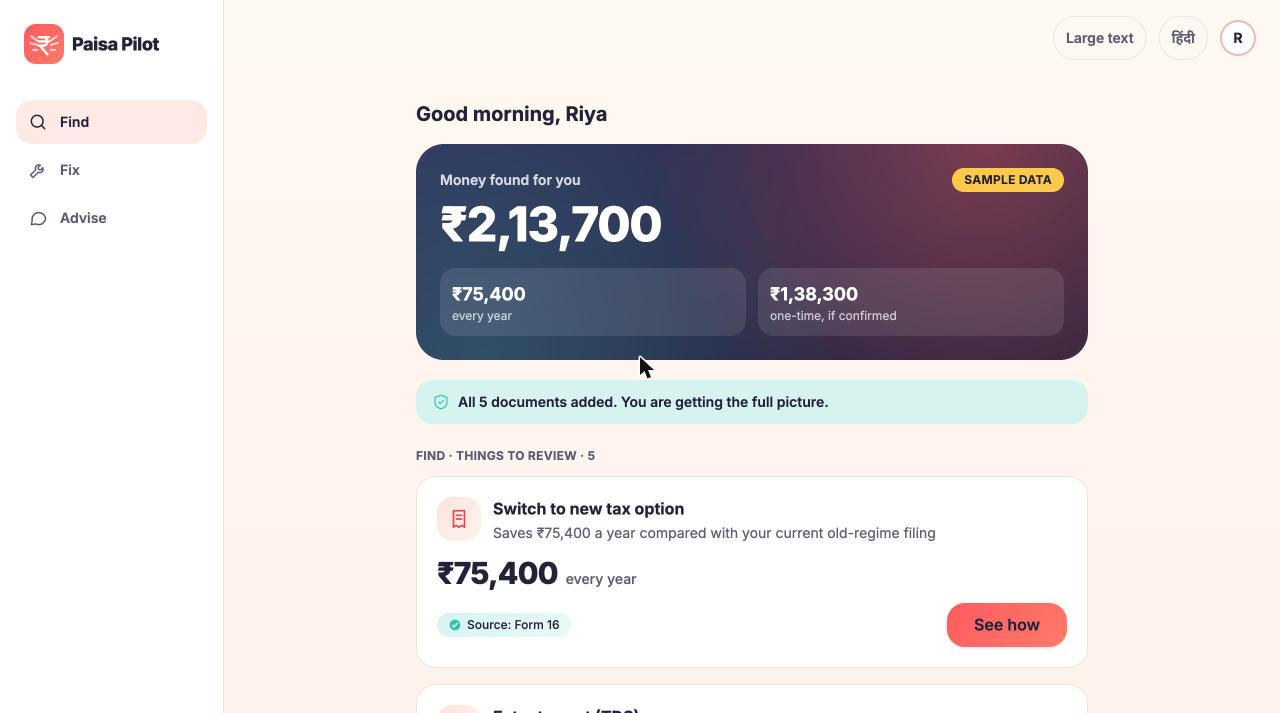
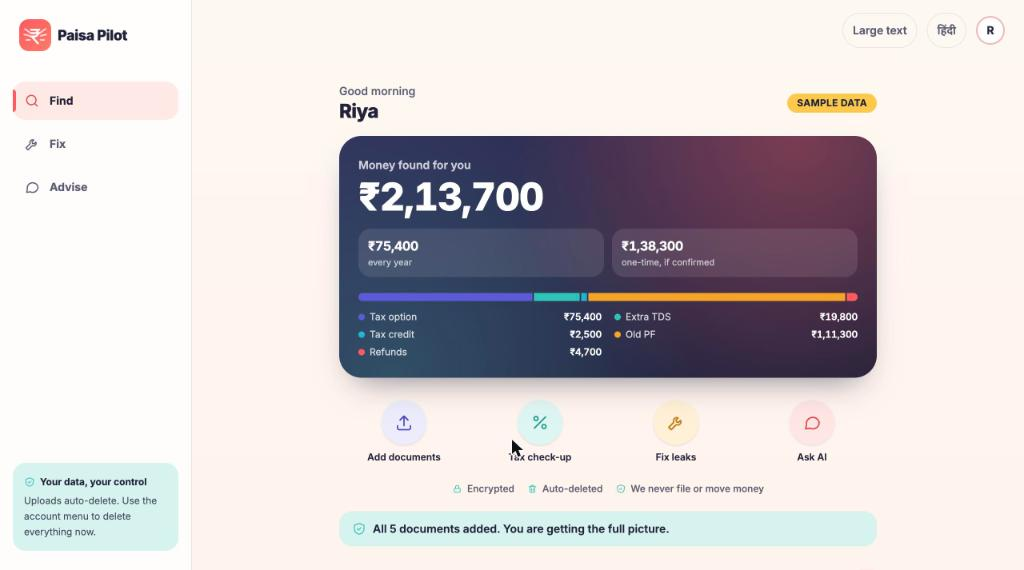
README screenshots of the new design; move landing chip off the card

diff --git a/web/src/screens/LandingScreen.tsx b/web/src/screens/LandingScreen.tsx
@@ -192,7 +192,7 @@ export function LandingScreen() {
               <span className="tabular text-navy text-base font-extrabold">₹75,400</span>
             </div>
           </div>
-          <div className="card float-soft absolute -left-4 bottom-10 hidden items-center gap-2 px-3 py-2 sm:flex md:-left-12" style={{ animationDelay: '1s' }}>
+          <div className="card float-soft absolute -bottom-3 -left-4 hidden items-center gap-2 px-3 py-2 sm:flex md:-left-12" style={{ animationDelay: '1s' }}>
             <Icon name="check" size={16} className="text-teal" />
             <span className="text-navy text-xs font-bold">Every number shows its source</span>
           </div>
